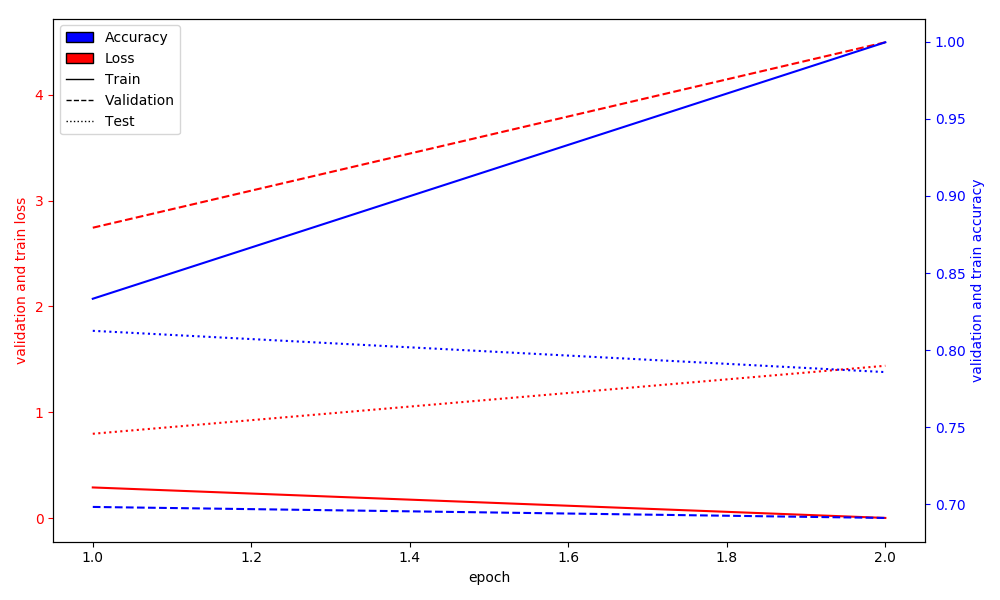
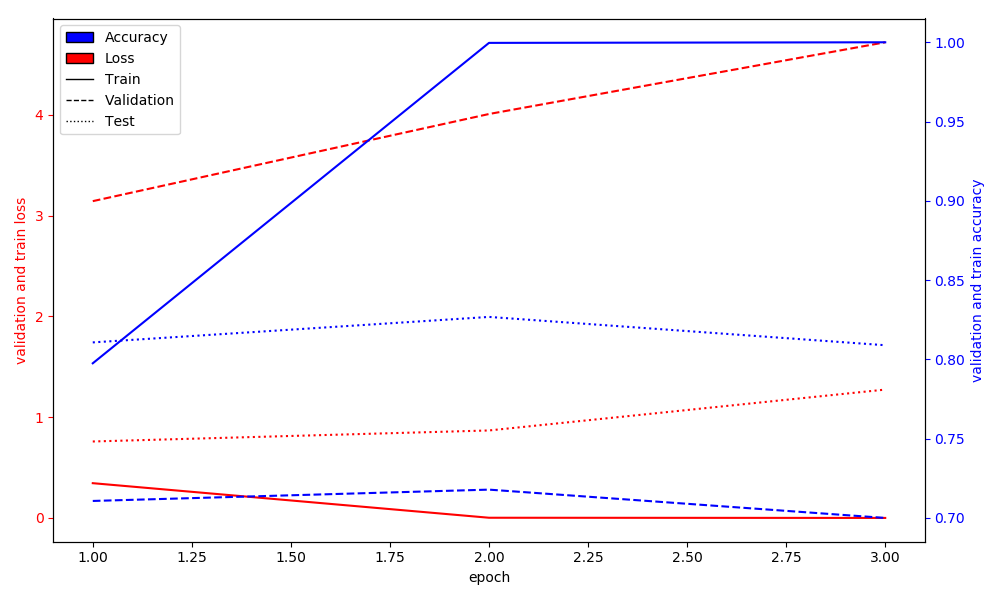
after cnn 4

diff --git a/modules/net.py b/modules/net.py
@@ -1,6 +1,6 @@
 import torch
 import torch.nn as nn
-from torchvision.models import alexnet, inception_v3
+from torchvision.models import alexnet, inception_v3, densenet121
 
 
 class Cnn(nn.Module):
@@ -132,7 +132,7 @@ class NewCnn(nn.Module):
         return self.fc(out)
 
 
-class TrainedAlexnet(nn.Module):
+class TrainedAlexnet(nn.Module):  # 227
     def __init__(self):
         super(TrainedAlexnet, self).__init__()
         self.alex = nn.Sequential(*list(alexnet(pretrained=True).children())[:-1])
@@ -160,7 +160,7 @@ class TrainedAlexnet(nn.Module):
         return self.fully_connected(out)
 
 
-class TrainedInception(nn.Module):
+class TrainedInception(nn.Module):  # 299
     def __init__(self):
         super(TrainedInception, self).__init__()
         self.inception = nn.Sequential(*list(inception_v3(pretrained=True).children())[:-1])
@@ -179,11 +179,30 @@ class TrainedInception(nn.Module):
         return self.fully_connected(out)
 
 
+class TrainedDenseNet(nn.Module):  # 224
+    def __init__(self):
+        super(TrainedDenseNet, self).__init__()
+        self.dense_net = nn.Sequential(*list(densenet121(pretrained=True).children())[:-1])
+        self.fully_connected = nn.Linear(100352, 2)
+
+    def forward(self, data):
+        im1 = data[:, 0, :, :].unsqueeze_(1)
+        out1 = self.dense_net(torch.cat((im1, im1, im1), 1))
+        out1 = out1.view(out1.size(0), -1)
+
+        im2 = data[:, 1, :, :].unsqueeze_(1)
+        out2 = self.dense_net(torch.cat((im2, im2, im2), 1))
+        out2 = out2.view(out2.size(0), -1)
+
+        out = torch.cat((out1, out2), 1)
+        return self.fully_connected(out)
+
+
 class Cnn4(nn.Module):
     def __init__(self):
         super(Cnn4, self).__init__()
         self.convolution = nn.Sequential(
-            nn.Conv2d(1, 48, kernel_size=5, stride=2),
+            nn.Conv2d(1, 48, kernel_size=11, stride=2),
             nn.ReLU(),
             nn.MaxPool2d(kernel_size=3, stride=2),
 
@@ -199,15 +218,15 @@ class Cnn4(nn.Module):
         )
 
         self.fc = nn.Sequential(
-            nn.Linear(14 * 14 * 128 * 2, 2048),
+            nn.Linear(6 * 6 * 128 * 2, 2048),
             nn.ReLU(),
             nn.Dropout(p=.5),
 
-#            nn.Linear(25088 * 2, 2048),
-#            nn.ReLU(),
-#            nn.Dropout(p=.5),
+            nn.Linear(2048, 256),
+            nn.ReLU(),
+            nn.Dropout(p=.5),
 
-            nn.Linear(2048, 2),
+            nn.Linear(256, 2),
         )
 
     def forward(self, data):

diff --git a/modules/tools.py b/modules/tools.py
@@ -69,21 +69,21 @@ def make_train_xy(sample_list):
 
     mb_list = [add_miss_block(s) for s in sample_list]
     # mb_list2 = [add_miss_block(s, block_size=15, blocks_on_image=5) for s in sample_list]
-    # x_list.append(combine_pairs(sample_list + mb_list))
+    x_list.append(combine_pairs(sample_list + mb_list))
 
-    tuple_list = [cut_image(s, .8) for s in sample_list]
-    p8_list = list()
-    for u, l in tuple_list: p8_list += [u, l]
+    # tuple_list = [cut_image(s, .8) for s in sample_list]
+    # p8_list = list()
+    # for u, l in tuple_list: p8_list += [u, l]
     # x_list.append(combine_pairs(p8_list))
 
-    tuple_list = [cut_image(s, .6) for s in sample_list]
-    p6_list = list()
-    for u, l in tuple_list: p6_list += [u, l]
+    # tuple_list = [cut_image(s, .6) for s in sample_list]
+    # p6_list = list()
+    # for u, l in tuple_list: p6_list += [u, l]
     # x_list.append(combine_pairs(p6_list))
 
     # SMALLER DATABASE
     # x_list.append(combine_pairs(sample_list))
-    x_list.append(combine_pairs([sample_list[0], p8_list[0]]))
+    # x_list.append(combine_pairs([sample_list[0], p8_list[0]]))
     # x_list.append(combine_pairs([sample_list[1], p8_list[2]]))
 
     x = np.concatenate(x_list, axis=0)

diff --git a/run.py b/run.py
@@ -9,7 +9,7 @@ from modules.net import Cnn4
 from torch.optim.lr_scheduler import StepLR
 from modules.tools import plot, make_xy, make_train_xy, plot_hist
 
-cpu_batch_size = 2
+cpu_batch_size = 256
 gpu_batch_size = 115
 
 learning_rate = 1e-2
@@ -23,8 +23,8 @@ max_loss_diff = 0.04
 min_epochs = 40
 max_epochs = 100
 
-IMAGE_ROW = 299
-IMAGE_COL = 299
+IMAGE_ROW = 181
+IMAGE_COL = 181
 VALID_DBs = ['NIST', 'FVC1', 'FVC2', 'FVC3', 'FVC4']
 
 parser = argparse.ArgumentParser()
@@ -64,7 +64,7 @@ if args.Dataset == 'NIST':
 else:  # FVC2002
     loaded = np.load('dataset/fvc_{}_{}.npz'.format(IMAGE_ROW, IMAGE_COL))
     loaded = loaded['DB{}'.format(args.Dataset[-1])]
-    sample_list = [loaded[:, i, :, :].reshape(-1, 1, IMAGE_ROW, IMAGE_COL)[:21] for i in range(8)]
+    sample_list = [loaded[:, i, :, :].reshape(-1, 1, IMAGE_ROW, IMAGE_COL) for i in range(8)]
     test_size = 10  # from 110
     valid_size = 10  # from 110
 
